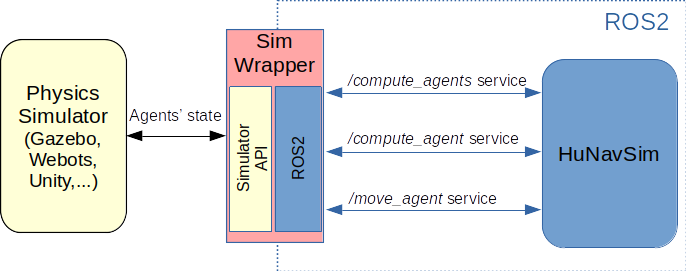
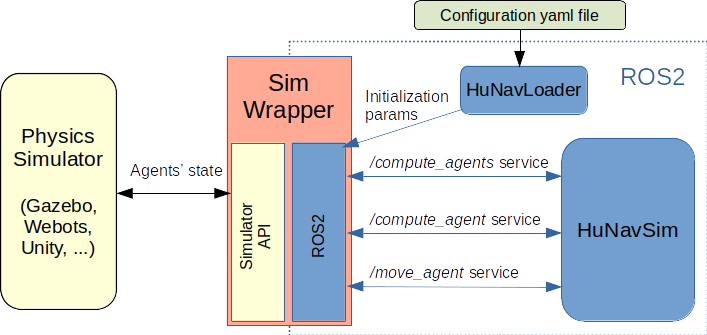
update readme

diff --git a/README.md b/README.md
@@ -10,7 +10,7 @@ Besides, some human reactions to the presence of robots have been included.
 
 ## Dependencies
 
-* Yo must download and install the Social Force Model library. Follow the instructions here: lightsfm https://github.com/robotics-upo/lightsfm
+* Yo must download and install the Social Force Model library. Follow the instructions here: https://github.com/robotics-upo/lightsfm
 
 
 ## Features
@@ -44,7 +44,7 @@ Besides, some human reactions to the presence of robots have been included.
 
 The navigation behavior of the human agents spawned in a regular physics simulator can be controlled by HuNavSim. Therefore, HuNavSim can be "connected" to a popular simulators used in Robotics like Gazebo, Webots or Unity.
 
-To do so, we must programme a ROS2 wrapper of the particular simulator. At each simulation step, the wrapper must collect the current state of the human agents and the robot (positions and velocities), and send them to HuNavSim. The HuNavSim controller will compute and return the next state of the agents. Finally, the wrapper must update the agents' state in the simulation.
+To do so, we must programme a ROS2 wrapper of the particular simulator.At each simulation step, the wrapper must collect the current state of the human agents and the robot (positions and velocities), and send them to HuNavSim. The HuNavSim controller will compute and return the next state of the agents. Finally, the wrapper must update the agents' state in the simulation.
 
 That communication with HuNavSim can be easily done through different ROS2 services available. These services use the messages of the package hunav_msgs:
 
@@ -54,6 +54,7 @@ That communication with HuNavSim can be easily done through different ROS2 servi
 
 * *"/move_agent"*. The request includes the states of the human agents, the robot and id of the agent that must be computed. The response of HuNavSim is the udpated state of the indicated agent. 
 
+Moreover, the initial configuration parameters of the agents can be read from the *"/hunav_loader"* ROS2 node. This node loads the agents data from the yaml file *'agents.yaml'* located in the *config* directory of the package *hunav_agent_manager*. Then, the parameters can be retreived through the ROS2 service */hunav_loader/get_parameters*.
 
 ![](https://github.com/robotics-upo/hunav_sim/blob/master/images/HuNavSim.png)
 
